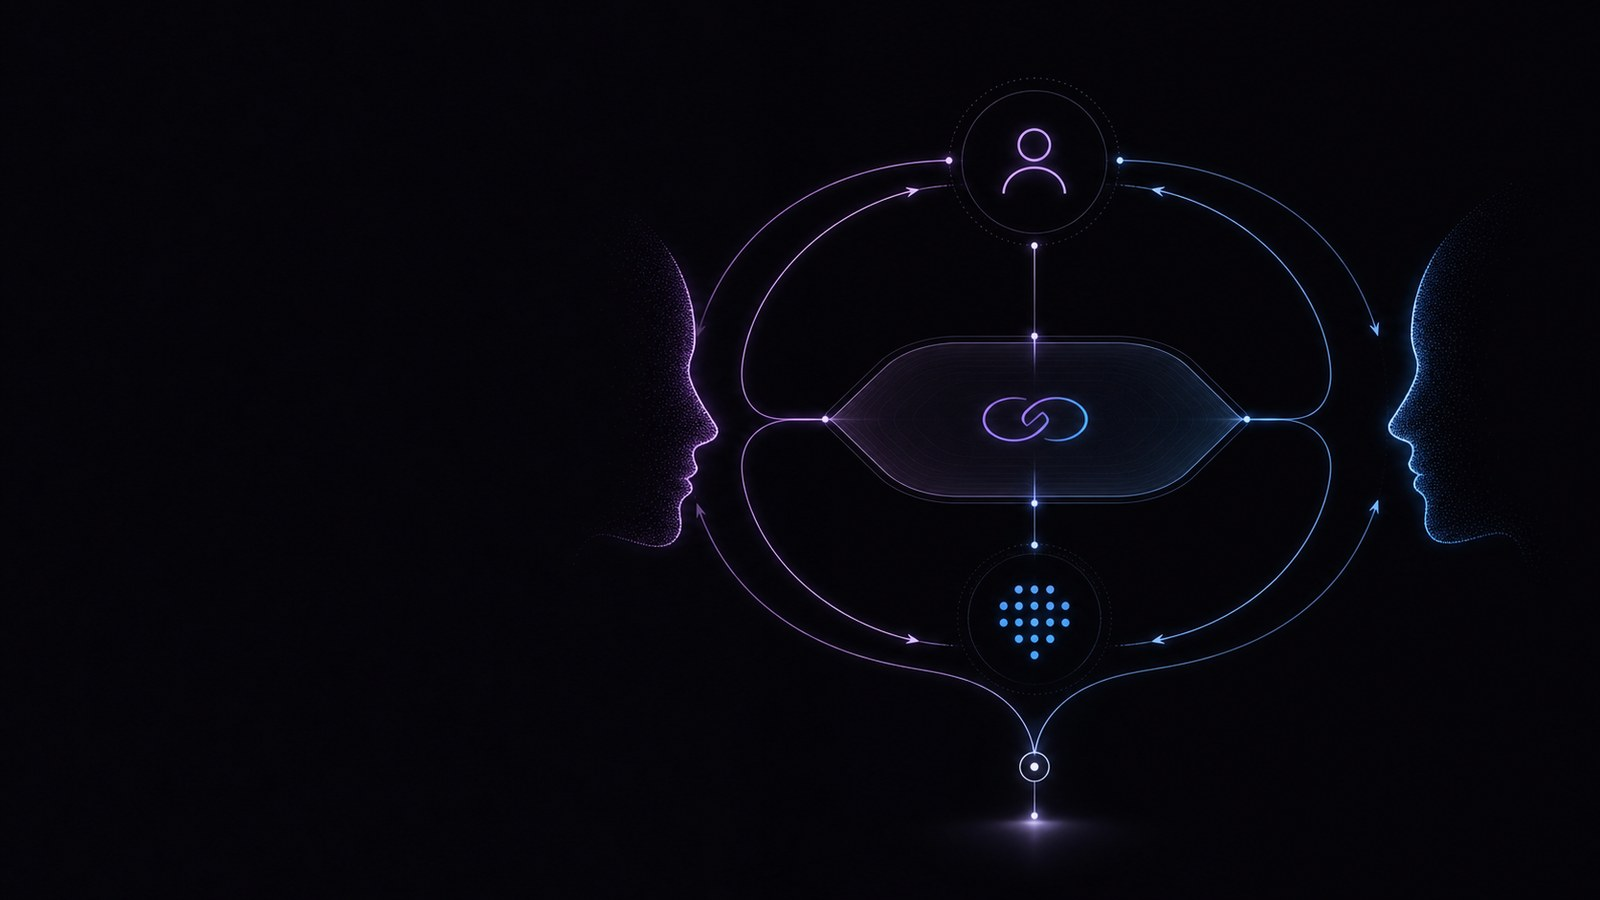
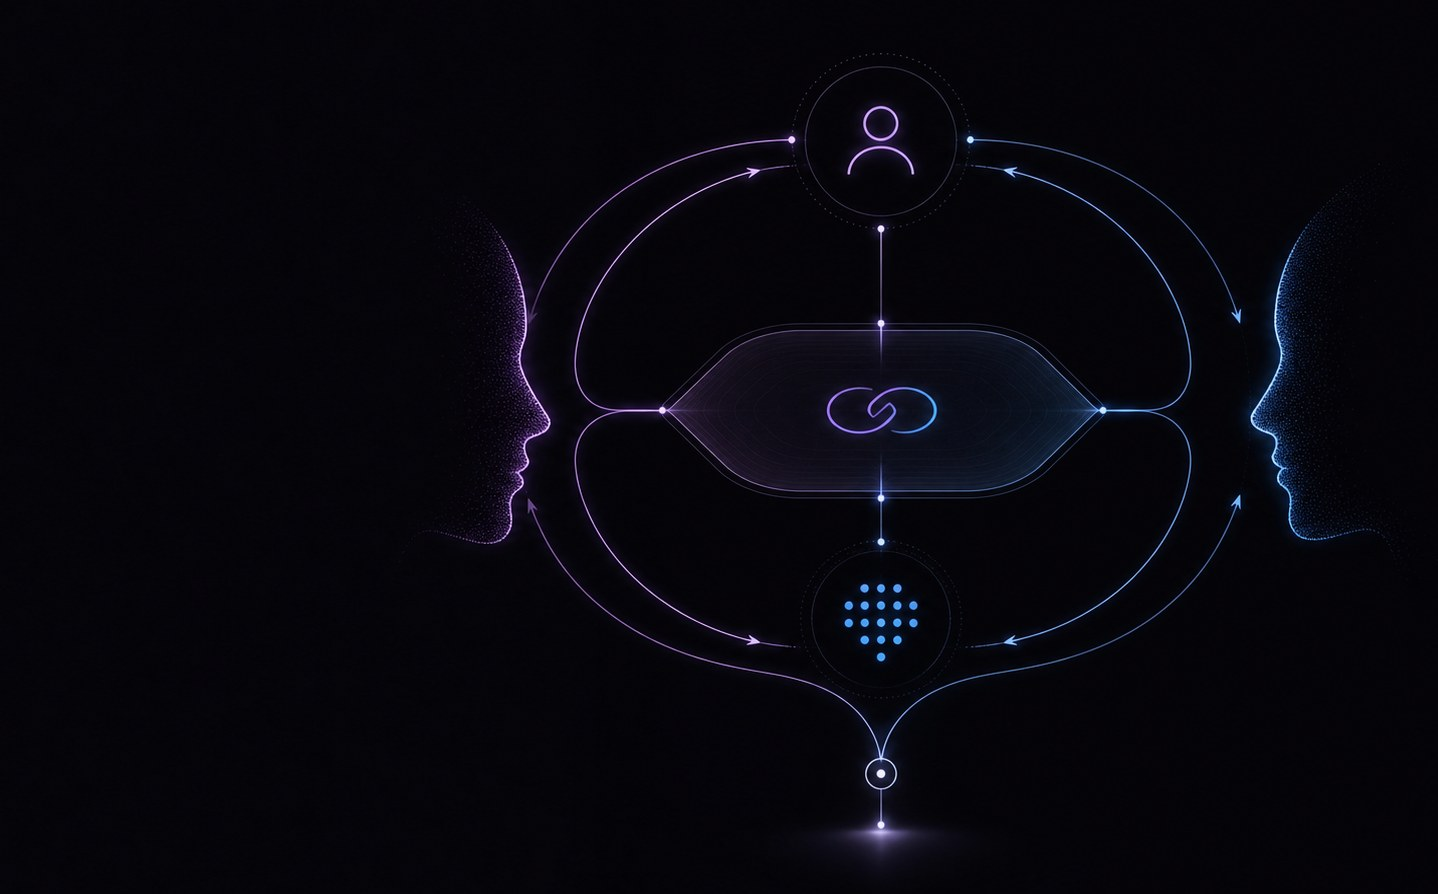
Crop hero diagram to remove dead space, recompute label positions
Measured pixel content distribution objectively (column brightness sums):
the real content of the source image is concentrated in ~40-90% of its
width: the left ~35% was near-empty (faint dust, not real content). That
dead zone read as fine in the standalone reference image but became a
glaring wasted-space problem once boxed into a bordered panel next to
text.

Cropped the source to x:[12%,98%] y:[3%,98%] of the original -- new
1438x894 asset, content now spans close to the full frame. Every label
position recomputed via the exact affine crop transform (not re-eyeballed,
to avoid compounding estimation error across iterations) and verified
against the live DOM: labels land within 0.1% of their computed targets,
no overlap with the hero heading at any tested width.

diff --git a/public/styles.css b/public/styles.css
@@ -83,17 +83,17 @@ body:after{content:'';position:fixed;left:var(--mx,50vw);top:var(--my,50vh);widt
 
 /* Hero diagram: real image + real HTML labels overlaid at matching coordinates */
 .entity-orbit{position:relative;min-width:0}
-.amoris-diagram{position:relative;width:100%;aspect-ratio:1600/900;border-radius:14px;overflow:hidden;border:1px solid rgba(255,255,255,.1);box-shadow:0 0 0 1px rgba(255,255,255,.03),0 30px 80px rgba(0,0,0,.55),0 0 90px rgba(255,255,255,.05)}
+.amoris-diagram{position:relative;width:100%;aspect-ratio:1438/894;border-radius:14px;overflow:hidden;border:1px solid rgba(255,255,255,.1);box-shadow:0 0 0 1px rgba(255,255,255,.03),0 30px 80px rgba(0,0,0,.55),0 0 90px rgba(255,255,255,.05)}
 .amoris-diagram picture,.amoris-diagram img{display:block;width:100%;height:100%;object-fit:contain}
 .diagram-label{position:absolute;font-family:var(--mono);text-transform:uppercase;letter-spacing:.1em;color:var(--text);text-align:center;transform:translate(-50%,-50%);white-space:nowrap;pointer-events:none;background:rgba(6,6,7,.82);border-radius:3px;padding:3px 7px;backdrop-filter:blur(2px)}
-.label-human{left:68.2%;top:6.6%;font-size:0.72rem;font-weight:600}
-.label-ai-systems{left:68.2%;top:72.6%;font-size:0.72rem;font-weight:600}
-.label-core-pill{position:absolute;left:68%;top:42.5%;transform:translate(-50%,-50%);width:38%;background:rgba(6,6,8,.9);border-radius:16px;padding:8px 10px;text-align:center;pointer-events:none}
+.label-human{left:65.35%;top:3.8%;font-size:0.72rem;font-weight:600}
+.label-ai-systems{left:65.35%;top:73.3%;font-size:0.72rem;font-weight:600}
+.label-core-pill{position:absolute;left:65.1%;top:41.6%;transform:translate(-50%,-50%);width:44%;background:rgba(6,6,8,.9);border-radius:16px;padding:8px 10px;text-align:center;pointer-events:none}
 .label-core-title{position:static;transform:none;background:none;padding:0;font-family:var(--display);font-weight:600;text-transform:uppercase;letter-spacing:.03em;font-size:1rem;line-height:1.4;color:var(--ink);white-space:normal;display:block}
 .label-core-sub{position:static;transform:none;background:none;padding:0;margin-top:5px;font-size:0.6rem;letter-spacing:.06em;text-transform:none;display:block}
-.label-human-evolves{left:45.3%;top:58.9%;font-size:0.62rem}
-.label-ai-evolves{left:89%;top:58.9%;font-size:0.62rem}
-.label-decisions{left:68.2%;top:92.7%;font-size:0.62rem;font-weight:600}
+.label-human-evolves{left:38.7%;top:58.85%;font-size:0.62rem}
+.label-ai-evolves{left:89.5%;top:58.85%;font-size:0.62rem}
+.label-decisions{left:65.35%;top:94.4%;font-size:0.62rem;font-weight:600}
 @media (max-width:900px){.diagram-label{font-size:0.56rem !important;padding:2px 5px}.label-core-title{font-size:0.8rem !important}.label-core-pill{width:42%}}
 @media (max-width:680px){.label-human-evolves,.label-ai-evolves{display:none}}
 

diff --git a/src/components/AmorisDiagram.jsx b/src/components/AmorisDiagram.jsx
@@ -9,8 +9,8 @@ export default function AmorisDiagram() {
         <img
           src="/assets/amoris-interaction-diagram.jpg"
           alt=""
-          width="1600"
-          height="900"
+          width="1438"
+          height="894"
           loading="eager"
         />
       </picture>
